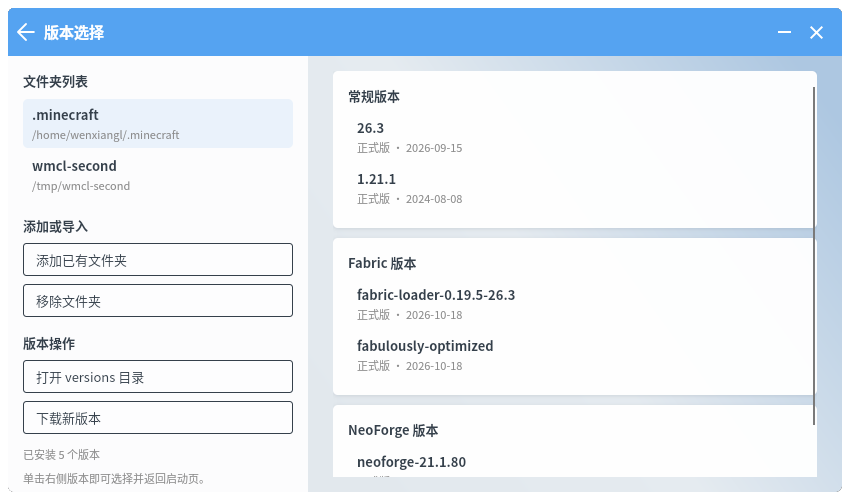
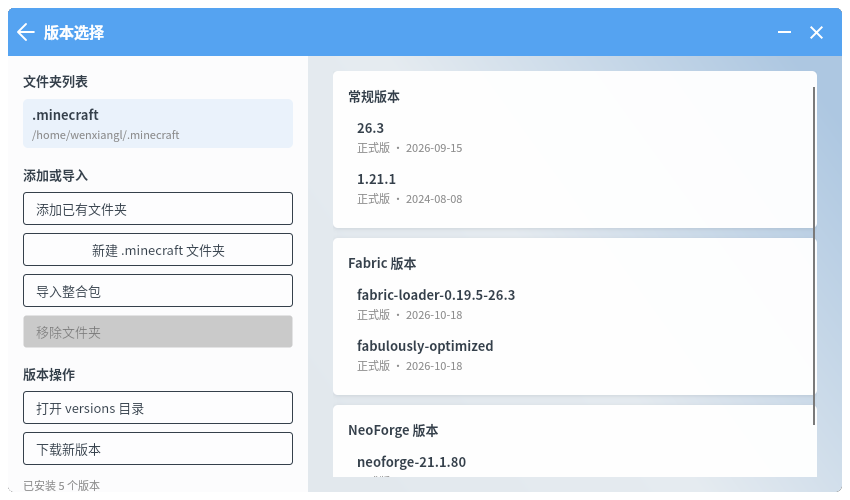
Feature: original folder actions on version page

Changed region(s): [[0.0, 0.33, 0.3671, 0.99]]

diff --git a/src/WMCL.App/ViewModels/VersionSelectViewModel.cs b/src/WMCL.App/ViewModels/VersionSelectViewModel.cs
@@ -14,18 +14,21 @@ public partial class VersionSelectViewModel : ViewModelBase
     private readonly AppServices _services;
     private readonly Action _close;
     private readonly Action _download;
+    private readonly Action _openModpack;
     private bool _suppressFolderChange;
 
     public VersionSelectViewModel(
         LaunchViewModel launch,
         AppServices services,
         Action close,
-        Action download)
+        Action download,
+        Action openModpack)
     {
         _launch = launch;
         _services = services;
         _close = close;
         _download = download;
+        _openModpack = openModpack;
         SelectedVersion = launch.SelectedVersion is { IsInstalled: true } selected
             ? selected
             : Versions.FirstOrDefault();
@@ -96,7 +99,14 @@ public partial class VersionSelectViewModel : ViewModelBase
     public void AddFolder(string path)
     {
         if (string.IsNullOrWhiteSpace(path)) return;
-        _services.SetGameDirectory(path);
+        var full = WmclPaths.Expand(path);
+        if (!Directory.Exists(Path.Combine(full, "versions")))
+        {
+            var nested = Path.Combine(full, ".minecraft");
+            if (Directory.Exists(Path.Combine(nested, "versions")))
+                full = nested;
+        }
+        _services.SetGameDirectory(full);
         ReloadFolders();
     }
 
@@ -177,5 +187,12 @@ public partial class VersionSelectViewModel : ViewModelBase
     {
         _close();
         _download();
+    }
+
+    [RelayCommand]
+    private void ImportModpack()
+    {
+        _close();
+        _openModpack();
     }
 }

diff --git a/src/WMCL.App/Views/VersionSelectView.axaml.cs b/src/WMCL.App/Views/VersionSelectView.axaml.cs
@@ -10,6 +10,30 @@ public partial class VersionSelectView : UserControl
 {
     public VersionSelectView() => InitializeComponent();
 
+    private async void OnCreateGameFolderClick(object? sender, RoutedEventArgs e)
+    {
+        if (DataContext is not VersionSelectViewModel viewModel) return;
+        var storage = TopLevel.GetTopLevel(this)?.StorageProvider;
+        if (storage is null) return;
+        var folders = await storage.OpenFolderPickerAsync(new Avalonia.Platform.Storage.FolderPickerOpenOptions
+        {
+            Title = "选择创建 .minecraft 的父目录",
+            AllowMultiple = false
+        });
+        if (folders.Count == 0) return;
+        var parent = folders[0].Path.LocalPath;
+        var path = Path.Combine(parent, ".minecraft");
+        try
+        {
+            Directory.CreateDirectory(Path.Combine(path, "versions"));
+            viewModel.AddFolder(path);
+        }
+        catch
+        {
+            // 权限不足时不切换目录
+        }
+    }
+
     private async void OnAddGameFolderClick(object? sender, RoutedEventArgs e)
     {
         if (DataContext is not VersionSelectViewModel viewModel) return;

diff --git a/src/WMCL.App/ViewModels/MainWindowViewModel.cs b/src/WMCL.App/ViewModels/MainWindowViewModel.cs
@@ -116,7 +116,8 @@ public partial class MainWindowViewModel : ViewModelBase, IDisposable
             Launch,
             Services,
             CloseVersionSelect,
-            () => NavigateTo("download"));
+            () => NavigateTo("download"),
+            () => NavigateTo("modpack"));
         Services.GameDirectoryChanged += (_, _) => _ = ReloadGameFolderAsync();
         Launch.VersionSettingsRequested += async (_, id) =>
             await OpenInstanceSettingsAsync(id);

diff --git a/docs/LINK_VERSION_LOGIC_AUDIT.md b/docs/LINK_VERSION_LOGIC_AUDIT.md
@@ -19,7 +19,7 @@
 - PCL2 官方房间服务依赖闭源配置，本项目无法使用；联机页仍是 **EasyTier 手动网络 / 陶瓦 Terracotta** 替代方案，不是 PCL2 的官方房间列表和玩家列表。
 - 联机页不会自动启动 Minecraft 或自动加入服务器；房主仍需在游戏内“对局域网开放”，客人手动连接显示的地址。
 - 版本选择页右侧已改为按加载器分组卡片（常规/Fabric/Forge/NeoForge/Quilt/OptiFine/其他）；PCL2 还支持收藏、隐藏版本、错误版本等分组。
-- 左侧现已支持多个文件夹列表、添加已有文件夹、移除文件夹和切换目录；仍缺“新建 .minecraft 文件夹”和“导入整合包”入口。
+- 左侧已支持多文件夹列表、添加已有文件夹、新建 `.minecraft` 文件夹、导入整合包、移除文件夹和切换目录。
 - `AutoFallbackToTerracotta` 默认开启，EasyTier 失败会自动切到陶瓦；不需要时可在界面关掉。
 - 陶瓦/TUN/EasyTier 仍依赖本机权限、二进制下载和网络环境。
 
@@ -34,5 +34,5 @@
 
 - `dotnet build WMCL.slnx -c Release --nologo -v q`：0 warning / 0 error
 - `dotnet test WMCL.slnx -c Release --nologo -v q`：142 passed
-- 版本选择页实测：用隔离的 `XDG_CONFIG_HOME` 配置启动，左侧同时显示 `.minecraft` 和临时文件夹，右侧按 Fabric/NeoForge 等分组显示版本；异步加载不会自动关闭。
+- 版本选择页实测：用隔离的 `XDG_CONFIG_HOME` 配置启动，左侧同时显示 `.minecraft` 和临时文件夹，右侧按 Fabric/NeoForge 等分组显示版本；异步加载不会自动关闭。普通配置下左侧显示新建/添加/导入/移除入口。
 - 联机页实测：EasyTier 卡片不再出现陶瓦路径输入。

diff --git a/docs/UI_REFERENCE.md b/docs/UI_REFERENCE.md
@@ -39,6 +39,7 @@
 - PCL-ME 启动页的账号资料卡、启动按钮样式与本项目仍有差异；
 - PCL-CE 的 PageHomepage 新闻主页/PageTools 尚未实现；
 - 百宝箱改为可用工具页（日志/游戏/配置目录），不再显示占位说明；
+- 版本选择页改为左侧多 `.minecraft` 文件夹列表 + 右侧按加载器分组版本卡片；
 - 实例页加入 150px 分区导航（概览/服务器/导出/设置/安装/Mod/资源包/存档/光影），右侧全宽卡片，顶部实例下拉切换；
 - “更多”移除自定义“实例管理”项；实例设置按 PCL2 从版本选择进入，并作为子页入栈；
 - 整合包页改为左 300 / 右自适应，并补空状态；
